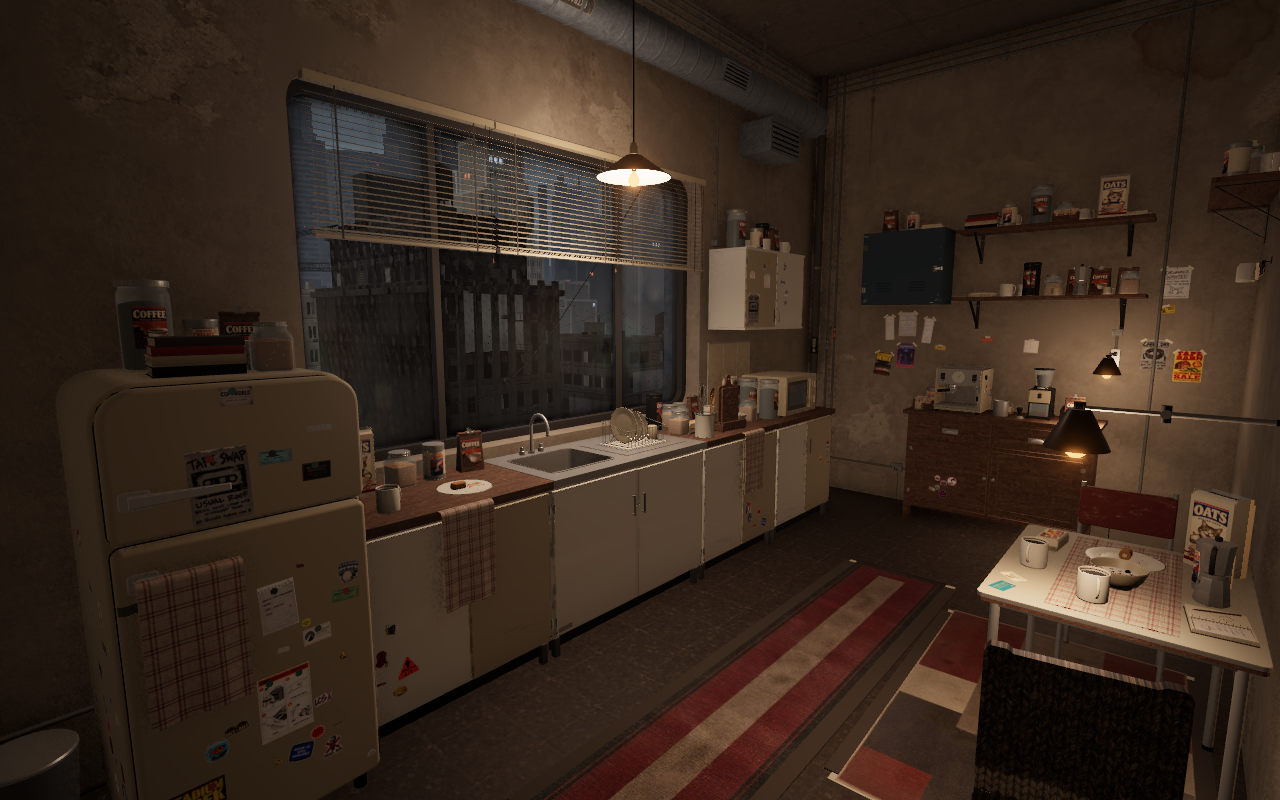
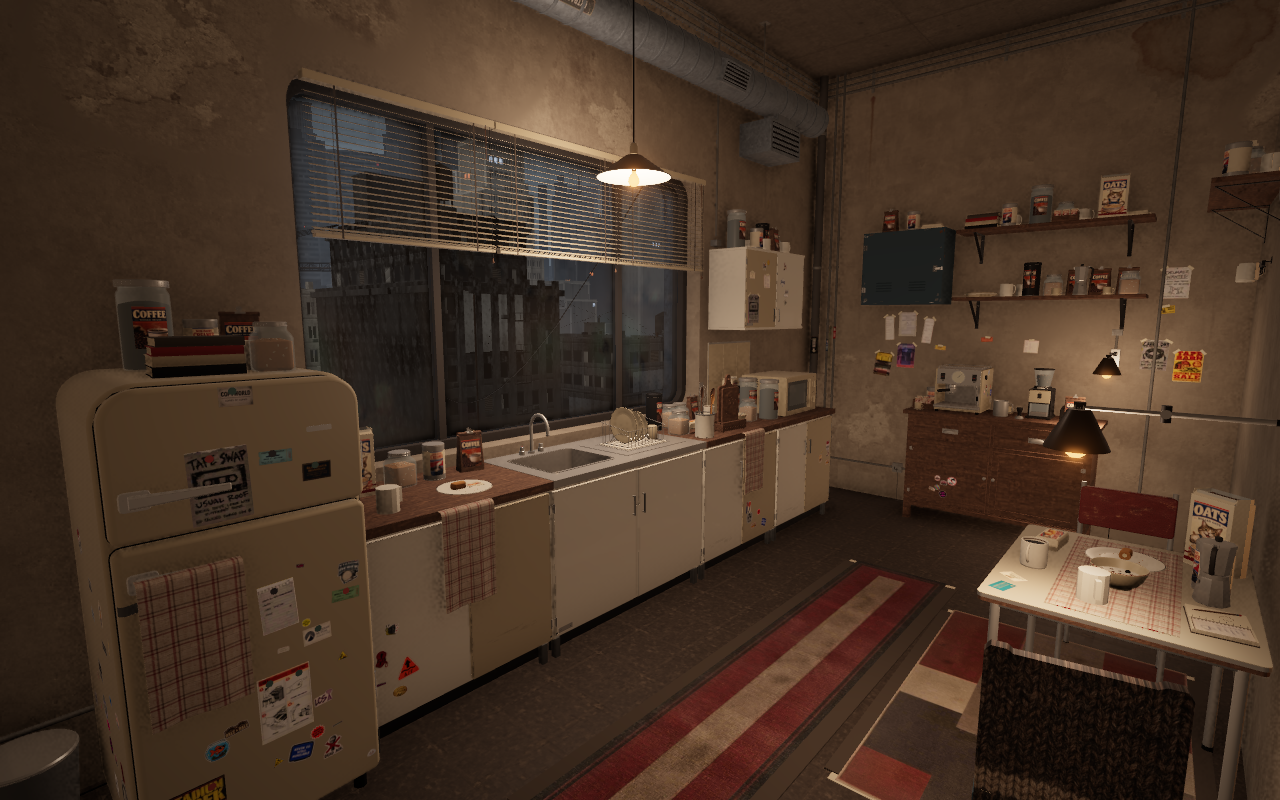
Show the deployed kitchen fill and personal mug blockouts

diff --git a/concepts/kitchen-comfort-2026-10-09/index.html b/concepts/kitchen-comfort-2026-10-09/index.html
@@ -26,7 +26,7 @@
   <p>Vibe collected and repaired this room herself. These concepts add places to settle in, useful rescued storage, illustrated pantry packs and traces of two girls sharing their daily life.</p>
   <p class="hint">Placement rule for every direction: furnishings find suitable walls and floor space; loose items choose compatible worktops, dining surfaces, shelves and hooks. Changing the room layout must repack them onto the available surfaces. The pictures describe the mood and useful groups, rather than fixed object coordinates.</p>
   <div class="notice">
-    <p><strong>Matching the approved coffee hangout.</strong> The reference below is the target. Fuller storage, larger wall art, personal papers, faded plaid and repaired furniture are in the actual room. Standing boards and a utensil crock join the preparation counter. The seats sit closer to it, with a loose knitted throw, worn fridge edges and faint cupboard scuffs. The latest pass varies the pantry stock: eleven repeated tins are replaced with glass jars, oats, creamer, coffee bags and empty mugs. The upper oat carton now shows its illustration at the front of the shelf. Five tall tins and five finished glass coffee canisters remain, using the existing textures.</p>
+    <p><strong>Matching the approved coffee hangout.</strong> The reference below is the target. Fuller storage, larger wall art, personal papers, faded plaid and repaired furniture are in the actual room. Standing boards and a utensil crock join the preparation counter. The seats sit closer to it, with a loose knitted throw, worn fridge edges and faint cupboard scuffs. The latest pass varies the pantry stock: eleven repeated tins are replaced with glass jars, oats, creamer, coffee bags and empty mugs. The upper oat carton now shows its illustration at the front of the shelf. Five tall tins and five finished glass coffee canisters remain, using the existing textures. The latest lighting pass gently lifts the cupboard faces with reflected lamp light. Two personal mug blockouts follow the dining and preparation surfaces; their dark-green ceramic finals follow separately.</p>
     <p class="hint">Only shelf-stable food and drinks: oats, coffee, powdered non-dairy creamer, sugar and long-life cakes. No plants. Loose items choose compatible surfaces and reshuffle after furniture edits. The cloth shares the existing atlas, with unchanged GPU memory.</p>
     <p><a href="https://lcs-rooms.up.railway.app/?t=19">Open the live kitchen</a> · <a href="../../props/?item=coffee-glass-canister">Inspect the catalog models</a></p>
   </div>
@@ -41,8 +41,8 @@
     <h2>Reference and current 3D progress</h2>
     <p>The room is being judged against this picture. Finished asset counts and the automatic comfort score do not measure the visual match.</p>
     <figure><a href="approved-target.png"><img src="approved-target.png" alt="Approved makeshift coffee kitchen reference with crowded pantry shelves, plaid towels, a knitted chair drape, personal papers and warm shaded lamps." width="1280" height="800" fetchpriority="high"></a><figcaption>Approved target · generated concept art.</figcaption></figure>
-    <figure><a href="progress-a.png?v=1ca8d80"><img src="progress-a.png?v=1ca8d80" alt="Current native 3D kitchen with varied glass jars, oats, creamer, coffee bags and empty mugs, warm task lights, plaid towels and a loose knitted chair throw." width="1280" height="800" loading="lazy"></a><figcaption>Current 3D implementation · entrance view · varied pantry stock and clearer illustrated oat packaging.</figcaption></figure>
-    <figure><a href="progress-b.png?v=1ca8d80"><img src="progress-b.png?v=1ca8d80" alt="Current opposing native 3D kitchen view with illustrated pantry supplies, a shaded table lamp, plaid runner and repaired mismatched chairs." width="1280" height="800" loading="lazy"></a><figcaption>Current 3D implementation · opposing view.</figcaption></figure>
+    <figure><a href="progress-a.png?v=221d8f3"><img src="progress-a.png?v=221d8f3" alt="Current native 3D kitchen with varied glass jars, oats, creamer, coffee bags and empty mugs, warm task lights, plaid towels and a loose knitted chair throw." width="1280" height="800" loading="lazy"></a><figcaption>Current 3D implementation · entrance view · varied pantry stock, gentler room fill and two personal mug blockouts.</figcaption></figure>
+    <figure><a href="progress-b.png?v=221d8f3"><img src="progress-b.png?v=221d8f3" alt="Current opposing native 3D kitchen view with illustrated pantry supplies, a shaded table lamp, plaid runner and repaired mismatched chairs." width="1280" height="800" loading="lazy"></a><figcaption>Current 3D implementation · opposing view.</figcaption></figure>
     <p class="hint">The actual room keeps its existing proportions and city. Its light is harder and its broad enamel faces more uniform than the generated reference. Native pictures at noon, dusk and night have a clear doorway, no waiting surface inventory and no missing prop models.</p>
   </section>
   <section id="details">
